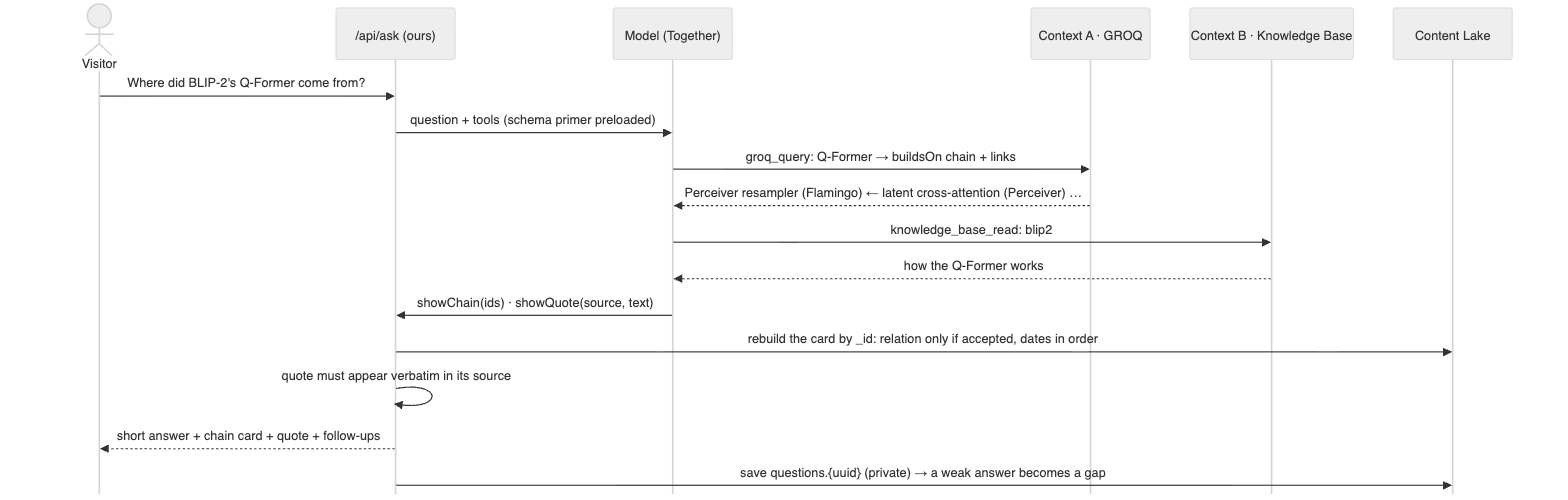
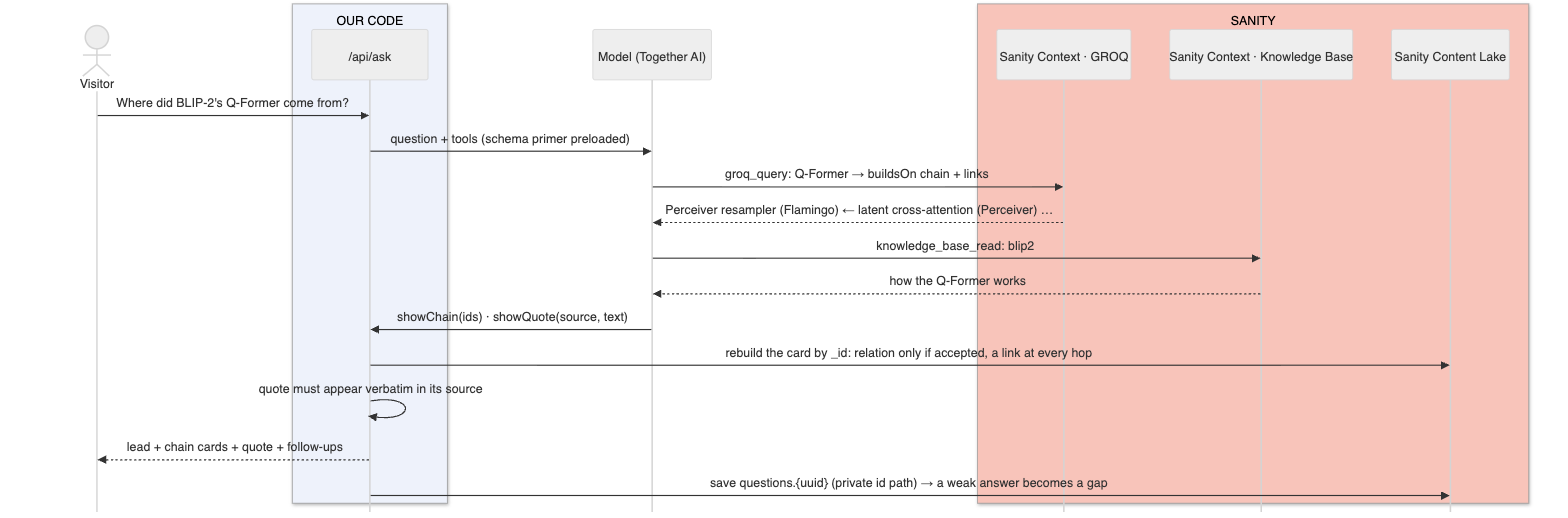
docs(post): diagrams make Sanity unmistakable
- architecture hand-laid as SVG (architecture.svg.mjs): one red-framed SANITY PLATFORM block with
  every feature named and solid red (Context x2, Knowledge Base, Live Content API, Content Lake,
  Workflows, Agent Actions), App SDK Desk + Studio in peach, our code pale, built-in legend
- other diagrams: 'Sanity …' in every product label, solid red Sanity nodes, legend in each image;
  sequence diagram groups Sanity participants under a SANITY band; verify diagram shows Sanity
  as the data source the checks read (the card itself is our code)

diff --git a/docs/post/POST.md b/docs/post/POST.md
@@ -48,9 +48,9 @@ https://github.com/akashgoyal/paper-lineage. The repo has `web/` (site + Ask), `
 
 ### Architecture
 
-Colours: **red** = Sanity service · **orange** = our code running on Sanity · **blue** = our code (Vercel, laptop) · **grey** = third party.
+Everything in **solid red is a Sanity feature**. **Peach** = our apps built on Sanity (Lineage Desk on the App SDK, Studio customisations), **blue** = our code (Vercel, laptop), **grey** = third party.
 
-![Architecture: the visitor lane (top) and the curator lane (bottom) meet at the Content Lake](diagrams/architecture.png)
+![Architecture: our code on the left, the Sanity platform (everything in red) on the right](diagrams/architecture.png)
 
 ### Example 1: a visitor asks a question
 
